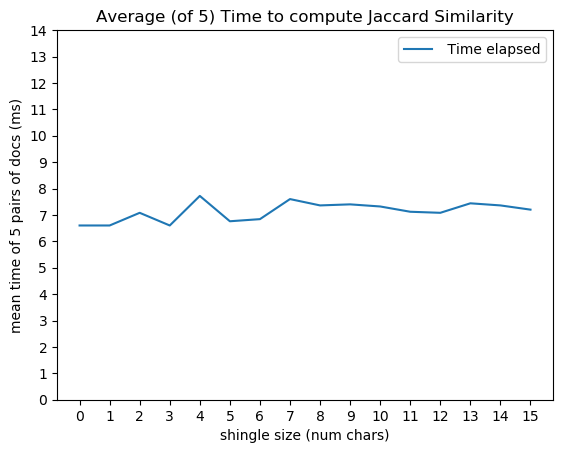
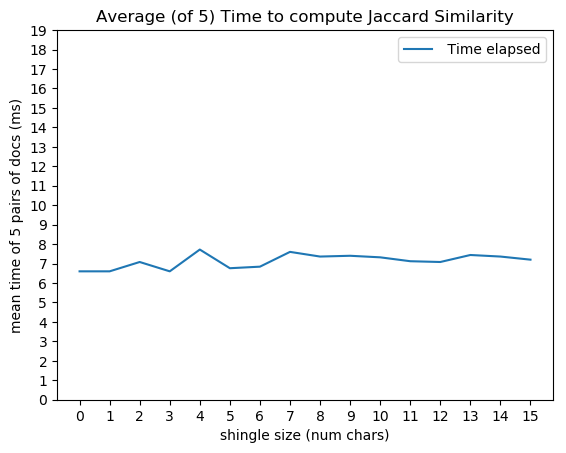
meanTime del jsim a escala

diff --git a/statsScripts/signature_nHash_k_meanError.py b/statsScripts/signature_nHash_k_meanError.py
@@ -1,0 +1,38 @@
+import subprocess
+lacaPath = 'D:\\code\\practicaAlgorismia'
+martinPath = ''
+rogerPath = ''
+path = lacaPath
+
+
+
+# n = number of hash functions applied to create signature matrix
+
+# Importing the dataset
+dtJS = pd.read_csv(path + '\\data\\signature_nHash_k_meanSim.csv', sep='\s*,\s*')
+dtSig = pd.read_csv(path + '\\data\\signature_nHash_k_meanSim.csv', sep='\s*,\s*')
+functs = [1, 25, 50] + [x for x in range(100, 1001, 50)]
+for n in functs:
+    print(str(n))
+    numPair = 0
+    pairsFile = open(path + '\\algorithms\\pairsOfDocsSelec.txt', 'r')
+    sims = [0 for n in range(16)]
+    for pairs in pairsFile.readlines():
+
+        pairs = pairs.rstrip('\n').split(" ")
+        # k = size of shingles
+        for k in range(16):
+            out = subprocess.check_output([path + '\\algorithms\\signatureMinHashSimilarity.exe', str(k), str(pairs[0]), str(pairs[1]), str(0), str(1), str(n)])
+            sims[k] += float(out.decode("utf-8"))
+            if numPair == 4:
+                sims[k] /= 5
+                out = str(n) + ', ' + str(k) + ', ' + str(sims[k])
+                file.write(out + '\n')
+        numPair += 1
+    pairsFile.close()
+file.close()
+
+
+
+
+    

diff --git a/statsScripts/jsim_k_meanSim.py b/statsScripts/jsim_k_meanSim.py
@@ -1,0 +1,26 @@
+import subprocess
+
+lacaPath = 'D:\\code\\practicaAlgorismia'
+martinPath = ''
+rogerPath = ''
+path = lacaPath
+
+file = open(path + '\\data\\jsim_k_meanSim.csv', 'w')
+file.write('k, Jaccard Similarity' + '\n')
+
+pairsFile = open(path + '\\algorithms\\pairsOfDocsSelec.txt', 'r')
+sims = [0 for x in range(16)]
+for pairs in pairsFile.readlines():
+    pairs = pairs.rstrip('\n').split(" ")
+    
+    # k = size of shingles
+    for k in range(16):
+        out = subprocess.check_output([path + '\\algorithms\\jSim.exe', str(k), str(pairs[0]), str(pairs[1]), str(0), str(1)])
+        sims[k] += float((out.decode("utf-8")))
+
+for k in range(16):
+    sims[k] /= 5
+    out = str(k) + ', ' + str(sims[k])
+    file.write(out + '\n')
+file.close()
+pairsFile.close()

diff --git a/statsScripts/jsim_k_meanTime_PLOT.py b/statsScripts/jsim_k_meanTime_PLOT.py
@@ -32,7 +32,7 @@ maxRange = int(np.max(x))+1
 plt.xticks([x * step for x in range(0, maxRange)])
 
 # Set "tick" frequency in y axis
-plt.yticks([x for x in range(0, 15)])
+plt.yticks([x for x in range(0, 20)])
 
 # Set titles
 ax.set(title="Average (of 5) Time to compute Jaccard Similarity", xlabel="shingle size (num chars)", ylabel="mean time of 5 pairs of docs (ms)")
